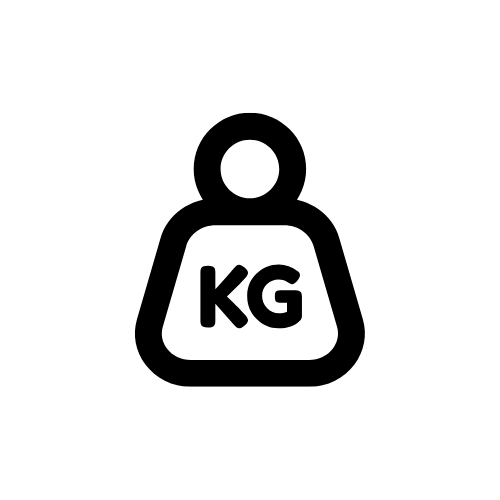
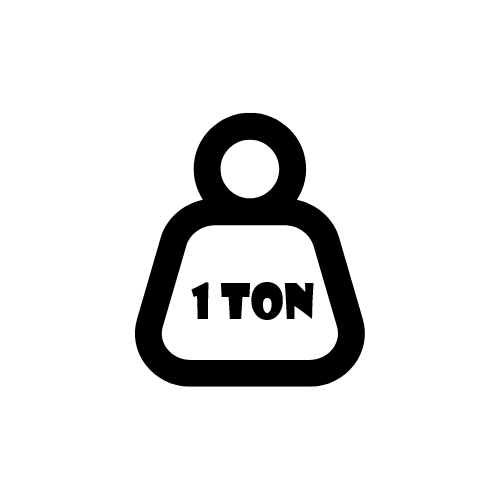
implements training page content

Changed region(s): [[0.36, 0.51, 0.63, 0.66]]

diff --git a/src/components/display/list/specifics/TrainingList.tsx b/src/components/display/list/specifics/TrainingList.tsx
@@ -1,0 +1,80 @@
+import { useEffect, useState } from "react";
+import ListElementCard from "../ListElementCard";
+import Axios from "axios";
+import { useCookies } from "react-cookie";
+import List from "../List";
+import type { TrainingResponse } from "../../../../interface/Training";
+
+interface TrainingListProps {
+  baseUrl: string;
+  haveAddBtn?: boolean;
+  idList?: number[];
+  handleOnElementClick: (id: number) => void;
+}
+
+function TrainingList({
+  baseUrl,
+  haveAddBtn = true,
+  idList = [],
+  handleOnElementClick,
+}: TrainingListProps) {
+  const [cookies] = useCookies(["token"]);
+  const trainingURL = "training";
+  const [trainingList, setTrainingList] = useState([]);
+  const [searchValue, setSearchValue] = useState<string>("");
+
+  const getAllTrainings = () => {
+    Axios.get(baseUrl + trainingURL, {
+      headers: {
+        Authorization: "Bearer " + cookies.token,
+      },
+    })
+      .then((response) => {
+        setTrainingList(response.data.content);
+      })
+      .catch((error) => {
+        console.log(error);
+      });
+  };
+
+  useEffect(() => {
+    getAllTrainings();
+  }, []);
+
+  const prepareDOMElements = () => {
+    return trainingList
+      .filter(
+        (Training: TrainingResponse) =>
+          searchValue === "" ||
+          Training.name.toLowerCase().includes(searchValue.toLowerCase())
+      )
+      .map((training: TrainingResponse) => (
+        <ListElementCard
+          listElementData={{
+            id: training.id,
+            name: training.name,
+            creator: training.creator,
+            description: training.description,
+            favorite: false,
+            // hashtag: Training.TrainingType,
+            imageSrc: "/training/training-icon.png",
+          }}
+          onClickHandler={() => handleOnElementClick(training.id)}
+          key={training.id}
+          isSelected={idList.includes(training.id)}
+        />
+      ));
+  };
+  return (
+    <List
+      handleOnKeyUp={(e: React.KeyboardEvent<HTMLInputElement>) => {
+        setSearchValue(e.currentTarget.value);
+      }}
+      haveAddBtn={haveAddBtn}
+    >
+      {prepareDOMElements()}
+    </List>
+  );
+}
+
+export default TrainingList;

diff --git a/src/pages/training/NewTrainingPage.tsx b/src/pages/training/NewTrainingPage.tsx
@@ -1,5 +1,63 @@
-function NewTrainingPage() {
-  return <div>NewTrainingPage</div>;
+import { useRef, useState } from "react";
+import { useCookies } from "react-cookie";
+import type { CreationFormRef } from "../../components/creationForm/CreationForm";
+import type { TrainingRequest } from "../../interface/Training";
+import Axios from "axios";
+import CreationForm from "../../components/creationForm/CreationForm";
+import PageBase from "../../components/base/PageBase";
+import NameDescriptionSlide from "./NameDescriptionSlide";
+
+interface NewTrainingPageProps {
+  baseUrl: string;
+}
+
+function NewTrainingPage({ baseUrl }: NewTrainingPageProps) {
+  const [cookies] = useCookies(["token"]);
+  const trainingURL = "training/";
+
+  const creationFormRef = useRef<CreationFormRef>(null);
+
+  const nextStep = (steps = 1) => creationFormRef.current?.nextStep(steps);
+  const prevStep = () => creationFormRef.current?.prevStep();
+
+  const [trainingRequest, setTrainingRequest] = useState<TrainingRequest>({
+    name: "",
+    description: "",
+    existingSequenceIds: [],
+    sequenceRequests: [],
+  });
+
+  const handleFormSubmit = (e: React.FormEvent<HTMLFormElement>) => {
+    e.preventDefault();
+    console.log(trainingRequest);
+    nextStep();
+
+    Axios.post(baseUrl + trainingURL, trainingRequest, {
+      headers: {
+        Authorization: "Bearer " + cookies.token,
+      },
+    })
+      .then(() => {
+        nextStep();
+      })
+      .catch(() => {
+        nextStep(2);
+      });
+  };
+
+  return (
+    <>
+      <PageBase header="New Training" />
+      <CreationForm ref={creationFormRef} onSubmitHandler={handleFormSubmit}>
+        <NameDescriptionSlide
+          baseUrl={baseUrl}
+          trainingRequest={trainingRequest}
+          setTrainingRequest={setTrainingRequest}
+          nextStep={nextStep}
+        />
+      </CreationForm>
+    </>
+  );
 }
 
 export default NewTrainingPage;

diff --git a/src/pages/training/NameDescriptionSlide.tsx b/src/pages/training/NameDescriptionSlide.tsx
@@ -1,7 +1,7 @@
 import { useRef } from "react";
 import AlertMessage from "../../components/alert/AlertMessage";
 import creationFormStyles from "../../components/creationForm/creation-form.module.css";
-import styles from "./new-sequence.module.css";
+import styles from "./new-training.module.css";
 import InputField from "../../components/input/InputField";
 import TextAreaField from "../../components/input/TextAreaField";
 import type { NewTrainingSlideProps } from "./NewTrainingSlideProps";
@@ -40,7 +40,7 @@ function NameCommentSlide({
   return (
     <div className={creationFormStyles["form-slide"]} id="slide3">
       <AlertMessage>
-        Exercise Instance's <strong>Name</strong> & <strong>Description</strong>
+        Training's <strong>Name</strong> & <strong>Description</strong>
       </AlertMessage>
       <div className={styles["input-fields"]}>
         <InputField

diff --git a/src/pages/training/TrainingPage.tsx b/src/pages/training/TrainingPage.tsx
@@ -1,5 +1,24 @@
-function TrainingPage() {
-  return <div>TrainingPage</div>;
+import PageBase from "../../components/base/PageBase";
+import TrainingList from "../../components/display/list/specifics/TrainingList";
+
+interface SequencePageProps {
+  baseUrl: string;
+}
+
+function TrainingPage({ baseUrl }: SequencePageProps) {
+  const handleElementClick = (id: number) => {
+    window.location.href = "/training/" + id;
+  };
+  return (
+    <>
+      <PageBase header="Trainings" />
+      <TrainingList
+        baseUrl={baseUrl}
+        handleOnElementClick={handleElementClick}
+        haveAddBtn
+      />
+    </>
+  );
 }
 
 export default TrainingPage;

diff --git a/src/components/sidebar/SideBar.tsx b/src/components/sidebar/SideBar.tsx
@@ -101,7 +101,13 @@ function SideBar({
               Exercise Instance
             </a>
             <a className={"" + styles["nav-button"]} href="/sequence">
-              Sequences
+              Sequence
+            </a>
+            <a className={"" + styles["nav-button"]} href="/training">
+              Training
+            </a>
+            <a className={"" + styles["nav-button"]} href="/program">
+              Program
             </a>
             <a className={"" + styles["nav-button"]} href="/about">
               About

diff --git a/src/HandleRoutes.tsx b/src/HandleRoutes.tsx
@@ -44,7 +44,7 @@ function HandleRoutes({ baseUrl }: HandleRoutesProps) {
         <Route path="new" element={<NewSequencePage baseUrl={baseUrl} />} />
       </Route>
       <Route path="/training">
-        <Route index element={<TrainingPage /*baseUrl={baseUrl}*/ />} />
+        <Route index element={<TrainingPage baseUrl={baseUrl} />} />
         <Route path="new" element={<NewTrainingPage /*baseUrl={baseUrl}*/ />} />
       </Route>
       <Route path="*" element={<PageNotFound baseUrl={baseUrl} />} />

diff --git a/src/pages/sequence/NameCommentSlide.tsx b/src/pages/sequence/NameCommentSlide.tsx
@@ -40,7 +40,7 @@ function NameCommentSlide({
   return (
     <div className={creationFormStyles["form-slide"]} id="slide3">
       <AlertMessage>
-        Exercise Instance's <strong>Name</strong> & <strong>Description</strong>
+        Sequence's <strong>Name</strong> & <strong>Description</strong>
       </AlertMessage>
       <div className={styles["input-fields"]}>
         <InputField
